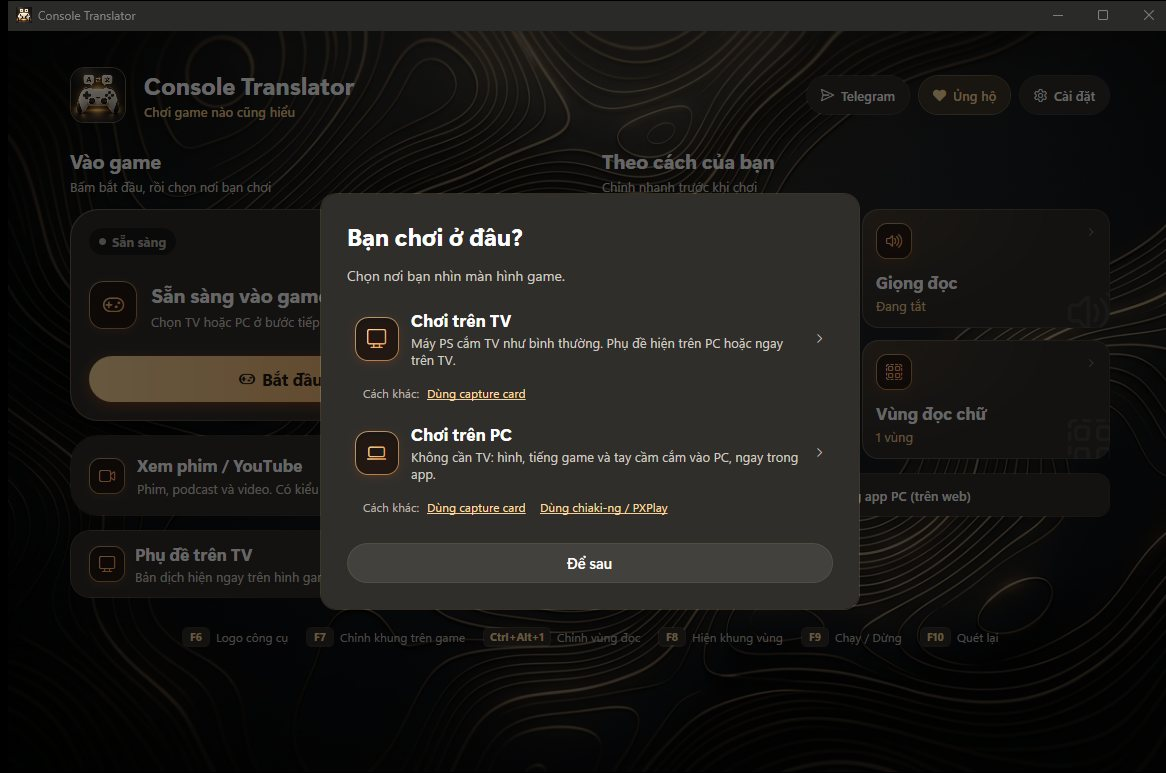
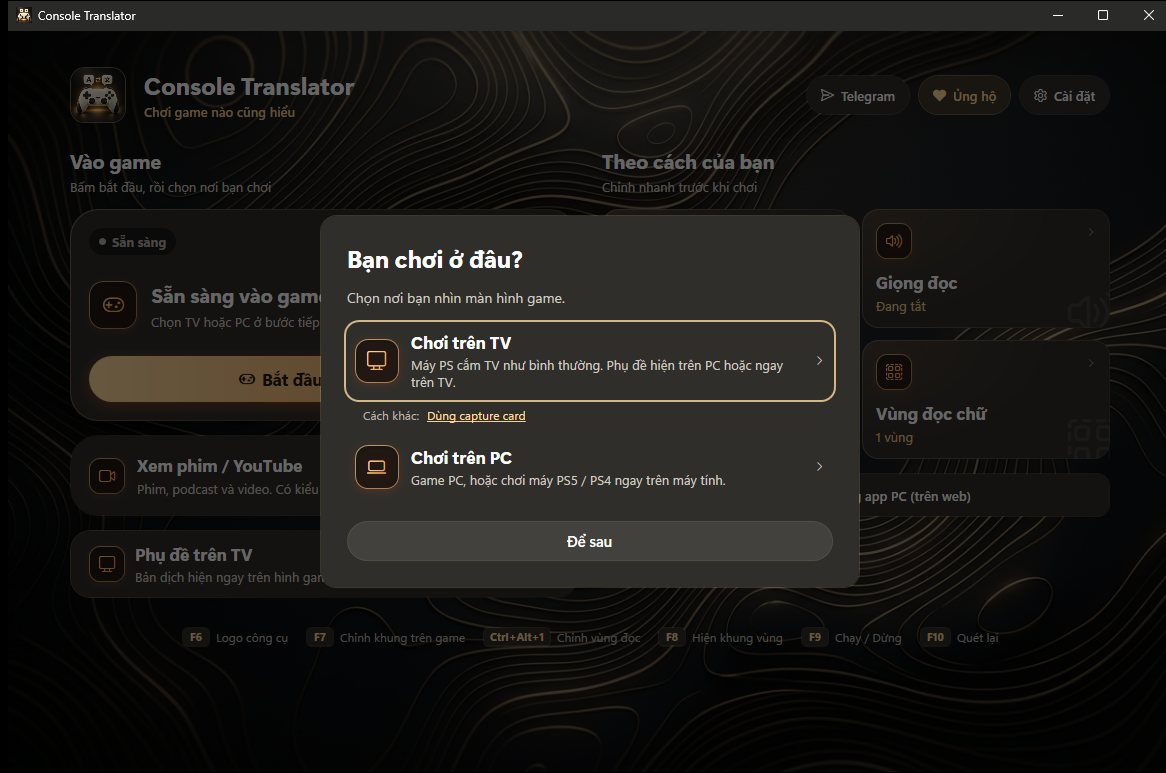
PC 1.1.2: guide page, download links, Remote Play source

Changed region(s): [[0.2779, 0.2484, 0.741, 0.8072], [0.0309, 0.0, 0.1235, 0.031]]

diff --git a/desktop.html b/desktop.html
@@ -1,4 +1,4 @@
 <!doctype html>
 <html lang="vi"><head><meta charset="utf-8"><meta name="viewport" content="width=device-width,initial-scale=1"><title>Mac và PC · Console Translator: Dịch game</title><meta name="description" content="Tải Console Translator cho Mac và PC Windows."><link rel="icon" href="assets/favicon-32.png"><link rel="stylesheet" href="site.css"><style>
 .desktop-page{max-width:980px;margin:auto;padding:34px 24px 80px}.desktop-home{display:inline-flex;align-items:center;min-height:48px;padding:0 18px;border-radius:10px;background:var(--gold);color:var(--ink);font-weight:800;box-shadow:0 8px 20px #0003}.desktop-home:hover{filter:brightness(1.08);transform:translateY(-1px)}.desktop-hero{padding:68px 0 42px;max-width:720px}.desktop-hero .eyebrow{color:var(--gold);letter-spacing:2px;font-size:11px;font-weight:800}.desktop-hero h1{font-size:clamp(42px,6vw,70px);margin:0 0 20px}.desktop-hero p{color:var(--muted);font-size:18px;max-width:620px}.desktop-cards{display:grid;grid-template-columns:repeat(2,minmax(0,1fr));gap:20px}.desktop-card{padding:30px;background:var(--surface);border:1px solid var(--line);border-radius:16px;display:flex;flex-direction:column;min-height:310px}.desktop-card h2{font-size:28px;margin:0 0 10px}.desktop-card p{color:var(--muted);line-height:1.65}.desktop-card ul{color:var(--muted);padding-left:20px;flex:1}.desktop-card li{margin:7px 0}.desktop-card .button{align-self:flex-start}.desktop-card.coming{background:var(--raised);border-style:dashed}.desktop-card.coming .status{color:var(--gold)}.desktop-note{margin-top:22px;padding:18px 20px;border:1px solid var(--line);border-radius:12px;color:var(--muted)}@media(max-width:650px){.desktop-page{padding:22px 18px 60px}.desktop-hero{padding:48px 0 30px}.desktop-hero p{font-size:16px}.desktop-cards{grid-template-columns:1fr}.desktop-card{min-height:0;padding:24px}.desktop-card .button{width:100%}}
-.desktop-body{background:#f7f5ef;color:#202124}.desktop-home{background:#202124;color:#fff}.desktop-hero h1,.desktop-card h2{color:#202124}.desktop-hero p,.desktop-card p,.desktop-card ul,.desktop-note{color:#5f6368}.desktop-hero .eyebrow,.desktop-card.coming .status,.desktop-note a{color:#9a5b00}.desktop-card{background:#fff;border-color:#d9d4ca;box-shadow:0 12px 30px #2d21120d}.desktop-card.coming,.desktop-note{background:#f0eee8}.desktop-note{border-color:#d9d4ca}.desktop-body .desktop-home:hover{background:#3c4043}.desktop-card .secondary{color:#202124;border-color:#d9d4ca;margin-top:10px}.desktop-card .secondary:hover{background:#f0eee8}</style></head><body class="desktop-body"><main class="desktop-page"><a class="desktop-home" href="https://ps5tiengviet.com">← Trang chủ</a><section class="desktop-hero"><p class="eyebrow">CONSOLE TRANSLATOR · MÁY TÍNH</p><h1>Dịch game trên Mac<br>và PC.</h1><p>Chọn đúng bản cho máy của bạn. Mac hoặc PC chạy app dịch và đọc chữ trên màn hình game; TV vẫn có thể nhận phụ đề qua Wi-Fi.</p></section><section class="desktop-cards" aria-label="Chọn phiên bản máy tính"><article class="desktop-card"><p class="eyebrow">ĐÃ SẴN SÀNG</p><h2>macOS</h2><p>Bản dành cho MacBook, iMac và Mac mini dùng macOS 15 trở lên.</p><ul><li>Nhận chữ từ cửa sổ game hoặc Remote Play</li><li>Có thể đưa phụ đề lên TV tương thích</li><li>Cần mã miễn phí nhận qua bot Telegram</li></ul><a class="button primary" href="https://github.com/kyozxx/PS-Translator/releases/download/mac-1.8.0/ConsoleTranslator-Mac-1.8.dmg">Tải app Mac →</a></article><article class="desktop-card" id="pc"><p class="eyebrow">MỚI · BẢN 1.1.1</p><h2>PC / Windows</h2><p>Bản dành cho Windows 11 hoặc Windows 10 bản 2004 trở lên, máy 64-bit. Không cần cài thêm .NET.</p><ul><li>Chơi trên TV qua Remote Play có sẵn trong app, hoặc đọc chữ từ cửa sổ game trên PC</li><li>Phụ đề nổi trên game, có thể đưa lên TV tương thích</li><li>Bản PC 1.1.1: chơi PS5 ngay trên PC trong app, có hình mượt, tiếng game và tay cầm, không cần TV hay app khác. Phụ đề hiện trên PC hoặc trên TV, giọng đọc tiếng Việt. Ghép nối có ảnh hướng dẫn từng bước.</li><li>Mở file <strong>Setup.exe</strong>, bấm <strong>Cài đặt</strong>. Cài xong, mở app từ biểu tượng trên màn hình chính hoặc Start Menu</li><li>Cần mã miễn phí: bot Telegram, nút <strong>App PC (Windows)</strong>. Mã App Mac không dùng được trên PC</li></ul><a class="button primary" href="https://github.com/kyozxx/PS-Translator/releases/download/pc-1.1.1/ConsoleTranslator-PC-1.1.1-Setup.exe">Tải bộ cài PC 1.1.1 →</a><a class="button secondary" href="pc/">Hướng dẫn →</a></article></section><p class="desktop-note"><strong>Đang dùng iPhone hoặc Android?</strong> Xem <a href="guide.html">hướng dẫn iOS</a> hoặc <a href="android-guide.html">hướng dẫn Android</a>. Điện thoại, Mac và PC là thiết bị chạy dịch; app TV chỉ nhận và hiển thị phụ đề.</p></main></body></html>
+.desktop-body{background:#f7f5ef;color:#202124}.desktop-home{background:#202124;color:#fff}.desktop-hero h1,.desktop-card h2{color:#202124}.desktop-hero p,.desktop-card p,.desktop-card ul,.desktop-note{color:#5f6368}.desktop-hero .eyebrow,.desktop-card.coming .status,.desktop-note a{color:#9a5b00}.desktop-card{background:#fff;border-color:#d9d4ca;box-shadow:0 12px 30px #2d21120d}.desktop-card.coming,.desktop-note{background:#f0eee8}.desktop-note{border-color:#d9d4ca}.desktop-body .desktop-home:hover{background:#3c4043}.desktop-card .secondary{color:#202124;border-color:#d9d4ca;margin-top:10px}.desktop-card .secondary:hover{background:#f0eee8}</style></head><body class="desktop-body"><main class="desktop-page"><a class="desktop-home" href="https://ps5tiengviet.com">← Trang chủ</a><section class="desktop-hero"><p class="eyebrow">CONSOLE TRANSLATOR · MÁY TÍNH</p><h1>Dịch game trên Mac<br>và PC.</h1><p>Chọn đúng bản cho máy của bạn. Mac hoặc PC chạy app dịch và đọc chữ trên màn hình game; TV vẫn có thể nhận phụ đề qua Wi-Fi.</p></section><section class="desktop-cards" aria-label="Chọn phiên bản máy tính"><article class="desktop-card"><p class="eyebrow">ĐÃ SẴN SÀNG</p><h2>macOS</h2><p>Bản dành cho MacBook, iMac và Mac mini dùng macOS 15 trở lên.</p><ul><li>Nhận chữ từ cửa sổ game hoặc Remote Play</li><li>Có thể đưa phụ đề lên TV tương thích</li><li>Cần mã miễn phí nhận qua bot Telegram</li></ul><a class="button primary" href="https://github.com/kyozxx/PS-Translator/releases/download/mac-1.8.0/ConsoleTranslator-Mac-1.8.dmg">Tải app Mac →</a></article><article class="desktop-card" id="pc"><p class="eyebrow">MỚI · BẢN 1.1.2</p><h2>PC / Windows</h2><p>Bản dành cho Windows 11 hoặc Windows 10 bản 2004 trở lên, máy 64-bit. Không cần cài thêm .NET.</p><ul><li>Chơi trên TV qua Remote Play có sẵn trong app, hoặc đọc chữ từ cửa sổ game trên PC</li><li>Phụ đề nổi trên game, có thể đưa lên TV tương thích</li><li>Bản PC 1.1.2: dịch game PC chỉ cần chọn cửa sổ, hoặc chơi PS5 ngay trên PC trong app với hình mượt, tiếng game và tay cầm. Phụ đề hiện trên PC hoặc trên TV, giọng đọc tiếng Việt. Ghép nối có ảnh hướng dẫn từng bước.</li><li>Mở file <strong>Setup.exe</strong>, bấm <strong>Cài đặt</strong>. Cài xong, mở app từ biểu tượng trên màn hình chính hoặc Start Menu</li><li>Cần mã miễn phí: bot Telegram, nút <strong>App PC (Windows)</strong>. Mã App Mac không dùng được trên PC</li></ul><a class="button primary" href="https://github.com/kyozxx/PS-Translator/releases/download/pc-1.1.2/ConsoleTranslator-PC-1.1.2-Setup.exe">Tải bộ cài PC 1.1.2 →</a><a class="button secondary" href="pc/">Hướng dẫn →</a></article></section><p class="desktop-note"><strong>Đang dùng iPhone hoặc Android?</strong> Xem <a href="guide.html">hướng dẫn iOS</a> hoặc <a href="android-guide.html">hướng dẫn Android</a>. Điện thoại, Mac và PC là thiết bị chạy dịch; app TV chỉ nhận và hiển thị phụ đề.</p></main></body></html>

diff --git a/pc/index.html b/pc/index.html
@@ -540,15 +540,15 @@
             <li>Bấm <span class="btn-app">Bắt đầu dịch game</span>, chọn cách chơi:
                 <ul>
                     <li><strong>Chơi trên TV</strong>: máy cắm TV như bình thường, PC nhận hình qua Chơi từ xa để đọc chữ.</li>
-                    <li><strong>Chơi trên PC</strong>: không cần TV, chơi ngay trong app với hình, tiếng game và tay cầm cắm vào PC. Xem <a href="#choi-pc">Cách dùng → Chơi trên PC</a>.</li>
-                    <li><strong>Cách khác</strong> (dòng chữ nhỏ dưới mỗi lựa chọn): <a href="#capture">capture card</a>, hoặc <a href="#app-khac">chiaki-ng / PXPlay</a>.</li>
+                    <li><strong>Chơi trên PC</strong>: app hỏi tiếp bạn chơi gì. <strong>Game trên PC</strong> (Steam, Epic…): chọn cửa sổ game, không cần máy PS. <strong>Máy PS5 / PS4, chơi ngay trong app</strong>: xem <a href="#choi-pc">Cách dùng → Chơi trên PC</a>.</li>
+                    <li><strong>Cách khác</strong> (dòng chữ nhỏ trong bảng): <a href="#capture">capture card</a>, hoặc <a href="#app-khac">chiaki-ng / PXPlay</a>.</li>
                 </ul>
             </li>
             <li>Chọn game bạn chơi để app dịch đúng tên nhân vật.</li>
             <li>Lần đầu, bấm <span class="btn-app">Chỉnh vùng dịch</span> và kéo khung ôm vừa dòng phụ đề (xem <a href="#vung">Cách dùng → Vùng đọc chữ</a>).</li>
             <li>Bấm <span class="btn-app">Bắt đầu dịch</span>. Câu dịch hiện trên PC, và trên TV nếu đã ghép TV (tab <a href="#phu-de-tv">Phụ đề TV</a>).</li>
         </ol>
-        <figure><img src="images/02-play-location.jpg" alt="Bạn chơi ở đâu" loading="lazy"><figcaption>Hai lựa chọn chính, cách khác nằm ở dòng chữ nhỏ bên dưới</figcaption></figure>
+        <figure><img src="images/02-play-location.jpg" alt="Bạn chơi ở đâu" loading="lazy"><figcaption>Chơi trên TV hoặc Chơi trên PC. Chọn Chơi trên PC thì app hỏi tiếp bạn chơi gì.</figcaption></figure>
         <figure><img src="images/06-tvplay.jpg" alt="Màn hình dịch khi chơi trên TV" loading="lazy"><figcaption>Màn hình dịch. Thanh dưới: Bắt đầu dịch, Chỉnh vùng dịch, AI, Dịch menu, Kết nối TV, Đọc to, Nhân vật.</figcaption></figure>
         </div></details>
     </div>
@@ -734,11 +734,11 @@
         <p>Phím tắt: <code>F6</code> logo công cụ, <code>F7</code> chỉnh khung trên game, <code>F8</code> hiện khung vùng, <code>F9</code> chạy / dừng, <code>F10</code> quét lại.</p>
         </div></details>
 
-        <details class="step" id="choi-pc"><summary><span class="num">3</span>Chơi trên PC ngay trong app</summary><div class="step-body">
-        <p>Không cần TV, không cần cài app khác. Dùng máy và tài khoản phụ đã ghép nối ở tab Bắt đầu.</p>
+        <details class="step" id="choi-pc"><summary><span class="num">3</span>Chơi máy PS5 / PS4 trên PC ngay trong app</summary><div class="step-body">
+        <p>Không cần TV, không cần cài app khác. Dùng máy và tài khoản phụ đã ghép nối ở tab Bắt đầu. Chơi game PC thì không cần phần này: chọn <strong>Chơi trên PC → Game trên PC</strong> rồi chọn cửa sổ game.</p>
         <ol>
             <li>Cắm tay cầm vào PC (USB hoặc Bluetooth): tay Xbox, DualSense hoặc DualShock 4.</li>
-            <li>Bấm <span class="btn-app">Bắt đầu dịch game</span> → <strong>Chơi trên PC</strong>, chọn game.</li>
+            <li>Bấm <span class="btn-app">Bắt đầu dịch game</span> → <strong>Chơi trên PC</strong> → <strong>Máy PS5 / PS4, chơi ngay trong app</strong>, chọn game.</li>
             <li>App tự bật máy và mở cửa sổ chơi: hình 1080p 60 khung/giây, tiếng game ra loa PC, phụ đề đè lên. <code>F11</code> hoặc nhấp đúp để toàn màn hình.</li>
         </ol>
         <div class="box tip"><strong>Tay Xbox</strong>A = ×, B = ○, X = □, Y = △, nút View = touchpad. Nhấn Menu và View cùng lúc thay cho nút PS. Chỉ bấm được khi cửa sổ chơi đang ở trên cùng.</div>
@@ -747,7 +747,7 @@
         <details class="step" id="app-khac"><summary><span class="num">4</span>Chơi bằng chiaki-ng / PXPlay</summary><div class="step-body">
         <ol>
             <li>Cài <strong>chiaki-ng</strong> (miễn phí) hoặc <strong>PXPlay</strong> (trả phí), mở app đó, kết nối máy và vào game.</li>
-            <li>Trên Console Translator bấm <span class="btn-app">Bắt đầu dịch game</span>, dưới <strong>Chơi trên PC</strong> bấm <strong>Cách khác: Dùng chiaki-ng / PXPlay</strong>, rồi <span class="btn-app">Chọn cửa sổ game</span>.</li>
+            <li>Trên Console Translator bấm <span class="btn-app">Bắt đầu dịch game</span>, chọn <strong>Chơi trên PC</strong>, bấm <strong>Cách khác: Dùng chiaki-ng / PXPlay</strong>, rồi <span class="btn-app">Chọn cửa sổ game</span>.</li>
             <li>Đã cài app rồi thì bật <strong>Tôi đã cài app, lần sau không hiện bảng này</strong> để lần sau vào thẳng bước chọn cửa sổ.</li>
             <li>Kéo vùng đọc chữ rồi bấm Bắt đầu dịch. Muốn đổi sang cửa sổ khác, bấm <span class="btn-app">Đổi cửa sổ</span> trên thanh màn dịch.</li>
         </ol>
@@ -762,7 +762,7 @@
         <ol>
             <li>Cắm: máy chơi game → HDMI vào capture card → HDMI ra TV (nếu chơi trên TV). Cắm USB của card vào PC.</li>
             <li>Đóng các app khác đang dùng card (OBS, Camera).</li>
-            <li>Bấm <span class="btn-app">Bắt đầu dịch game</span>, bấm <strong>Cách khác: Dùng capture card</strong> dưới <strong>Chơi trên TV</strong> (vẫn chơi trên TV) hoặc dưới <strong>Chơi trên PC</strong> (hình và tiếng hiện trong cửa sổ trên PC; <code>F11</code> hoặc nhấp đúp để toàn màn hình).</li>
+            <li>Bấm <span class="btn-app">Bắt đầu dịch game</span>, bấm <strong>Cách khác: Dùng capture card</strong> dưới <strong>Chơi trên TV</strong> (vẫn chơi trên TV) hoặc trong <strong>Chơi trên PC</strong> (hình và tiếng hiện trong cửa sổ trên PC; <code>F11</code> hoặc nhấp đúp để toàn màn hình).</li>
             <li>PC có nhiều thiết bị hình (webcam…) thì app hỏi chọn đúng capture card.</li>
         </ol>
         <div class="box tip"><strong>App báo chưa có quyền?</strong>Cài đặt Windows → Quyền riêng tư và bảo mật → Camera, bật “Cho phép ứng dụng máy tính truy cập camera”. Muốn có tiếng: bật cả mục Micro.</div>

diff --git a/setup.js b/setup.js
@@ -7,7 +7,7 @@
   ios:{title:'Cài trên iPhone / iPad',steps:['Cài TestFlight từ App Store. Đây là app của Apple dùng để cài bản thử nghiệm.','Mở bot Telegram, bấm Start rồi chọn Bản iOS để nhận link. Mở link bằng TestFlight, bấm Chấp nhận rồi Cài đặt.'],action:'Nhận link cài iPhone / iPad',url:'https://t.me/consoletranslatorbot',guide:'guide.html#cai-app',note:'Cài xong, mở hướng dẫn có hình để bật Chơi từ xa và ghép máy lần đầu. iPhone và máy chơi game cần cùng mạng Wi-Fi.'},
   android:{title:'Cài trên điện thoại Android',steps:['Mở hướng dẫn Android, làm theo các bước cài app qua Google Play.','Cài và kết nối một app Chơi từ xa riêng theo hướng dẫn. Có hình game rồi mới mở Console Translator và chọn chia sẻ đúng app đó.'],action:'Xem các bước cài Android',url:'android-guide.html',guide:'android-guide.html',note:'Android cần phiên bản 11 trở lên. Console Translator đọc hình đang hiển thị, không tự kết nối với máy chơi game. Trang hướng dẫn có link app Chơi từ xa.'},
   mac:{title:'Cài trên máy Mac',steps:['Tải file DMG, mở ra rồi kéo app vào Applications. Máy cần macOS 15 trở lên.','Mở bot Telegram, chọn App Mac để nhận mã, rồi dán mã vào ứng dụng.'],action:'Tải app Mac',url:'https://github.com/kyozxx/PS-Translator/releases/download/mac-1.8.0/ConsoleTranslator-Mac-1.8.dmg',guide:'guide.html#mac',note:'Nếu Mac hỏi có cho phép mở ứng dụng hay không, làm theo hướng dẫn kèm bản cài.'},
-  pc:{title:'Cài trên PC / Windows',steps:['Tải bộ cài 1.1.1, mở file Setup.exe và bấm Cài đặt. Cài xong, mở Console Translator từ biểu tượng trên màn hình chính hoặc Start Menu. Máy cần Windows 11 hoặc Windows 10 bản 2004 trở lên, 64-bit.','Mở bot Telegram, chọn App PC (Windows) để nhận mã, rồi dán mã vào ứng dụng.'],action:'Tải bộ cài PC 1.1.0',url:'https://github.com/kyozxx/PS-Translator/releases/download/pc-1.1.0/ConsoleTranslator-PC-1.1.0-Setup.exe',guide:'desktop.html#pc',note:'Nếu Windows hiện SmartScreen, bấm Thông tin thêm rồi Vẫn chạy. Mã App Mac không dùng được trên PC.'}
+  pc:{title:'Cài trên PC / Windows',steps:['Tải bộ cài 1.1.2, mở file Setup.exe và bấm Cài đặt. Cài xong, mở Console Translator từ biểu tượng trên màn hình chính hoặc Start Menu. Máy cần Windows 11 hoặc Windows 10 bản 2004 trở lên, 64-bit.','Mở bot Telegram, chọn App PC (Windows) để nhận mã, rồi dán mã vào ứng dụng.'],action:'Tải bộ cài PC 1.1.0',url:'https://github.com/kyozxx/PS-Translator/releases/download/pc-1.1.0/ConsoleTranslator-PC-1.1.0-Setup.exe',guide:'desktop.html#pc',note:'Nếu Windows hiện SmartScreen, bấm Thông tin thêm rồi Vẫn chạy. Mã App Mac không dùng được trên PC.'}
  };
  const isDesktop=()=>device==='mac'||device==='pc';
  const tvs={android:['Android TV / Google TV','Cài app nhận phụ đề trên TV trước, rồi ghép với điện thoại, Mac hoặc PC bằng mã 8 số.','guide.html#phu-de-tv','Cách cài Android TV'],lg:['TV LG','Kiểm tra TV trước khi mua gói. Có thể cài từ iPhone, Android hoặc máy tính theo hướng dẫn. Bản LG đang thử nghiệm, chưa kiểm tra hết các đời TV.','guide.html#lg-tv','Cách cài trên TV LG'],samsung:['TV Samsung','Kiểm tra đời TV rồi làm theo hướng dẫn bộ cài trên máy tính. Không phải TV Samsung nào cũng hỗ trợ.','guide.html#samsung-tv','Cách cài trên TV Samsung'],unknown:['Bạn chưa biết TV thuộc loại nào?','Mở bảng hướng dẫn kiểm tra hãng và đời TV. Nếu vẫn chưa rõ, gửi ảnh mã model TV vào nhóm hỗ trợ.','tv.html#kiểm-tra-tv-trước-khi-mua','Xem cách kiểm tra TV']};

diff --git a/guide.html b/guide.html
@@ -392,7 +392,7 @@
     <a class="other-guide" href="games.html">Xem danh sách game Dịch AI · Sao chép tên game →</a>
 
     <a class="other-guide" id="mac" href="https://github.com/kyozxx/PS-Translator/releases/download/mac-1.8.0/ConsoleTranslator-Mac-1.8.dmg">Dùng máy Mac? Tải app Mac 1.8 (macOS 15 trở lên) →</a>
-    <a class="other-guide" id="pc" href="https://github.com/kyozxx/PS-Translator/releases/download/pc-1.1.1/ConsoleTranslator-PC-1.1.1-Setup.exe">Dùng PC Windows? Tải bộ cài PC 1.1.1 (Windows 10/11, 64-bit) →</a>
+    <a class="other-guide" id="pc" href="https://github.com/kyozxx/PS-Translator/releases/download/pc-1.1.2/ConsoleTranslator-PC-1.1.2-Setup.exe">Dùng PC Windows? Tải bộ cài PC 1.1.2 (Windows 10/11, 64-bit) →</a>
     <a class="other-guide" href="pc/">Hướng dẫn bản PC từng bước (ghép nối, phụ đề TV, chơi trên PC) →</a>
     <p class="panel-intro" style="text-align: center; margin-top: -8px;">App Mac cần mã miễn phí: mở <a href="https://t.me/consoletranslatorbot" target="_blank" rel="noopener noreferrer">bot Telegram</a>, bấm <strong>App Mac</strong> hoặc <strong>App PC (Windows)</strong> để nhận mã rồi dán vào app. Mỗi bản dùng mã riêng.</p>
 

diff --git a/README.md b/README.md
@@ -72,7 +72,7 @@ Cần Mac chip Apple (**M1 trở lên**) chạy **macOS 15 trở lên**.
 
 Cần **Windows 11**, hoặc **Windows 10 bản 2004** trở lên, máy 64-bit. Không cần cài thêm .NET.
 
-1. Tải [**ConsoleTranslator-PC-1.1.1-Setup.exe**](https://github.com/kyozxx/PS-Translator/releases/download/pc-1.1.1/ConsoleTranslator-PC-1.1.1-Setup.exe).
+1. Tải [**ConsoleTranslator-PC-1.1.2-Setup.exe**](https://github.com/kyozxx/PS-Translator/releases/download/pc-1.1.2/ConsoleTranslator-PC-1.1.2-Setup.exe).
 2. Mở file vừa tải và bấm **Cài đặt**. Cài xong, mở app từ biểu tượng **Console Translator** trên màn hình chính hoặc Start Menu. Nếu Windows hiện SmartScreen, bấm **Thông tin thêm** rồi **Vẫn chạy**.
 3. Mở bot [**t.me/consoletranslatorbot**](https://t.me/consoletranslatorbot), bấm **🖥 App PC (Windows)** để nhận mã, dán mã vào app. Mã App Mac không dùng được trên PC.
 
